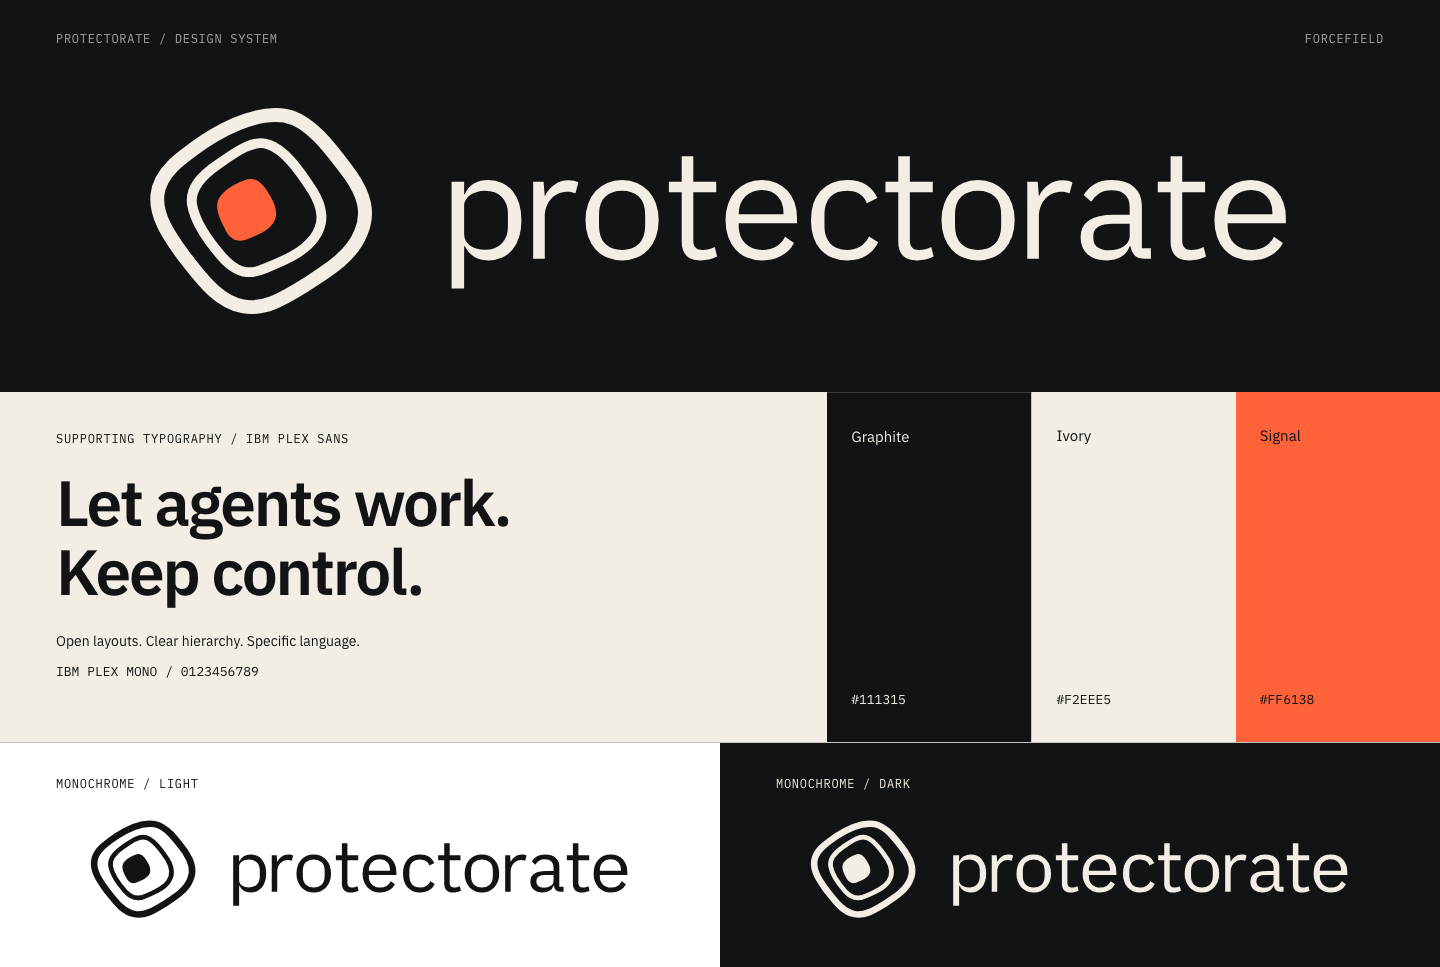
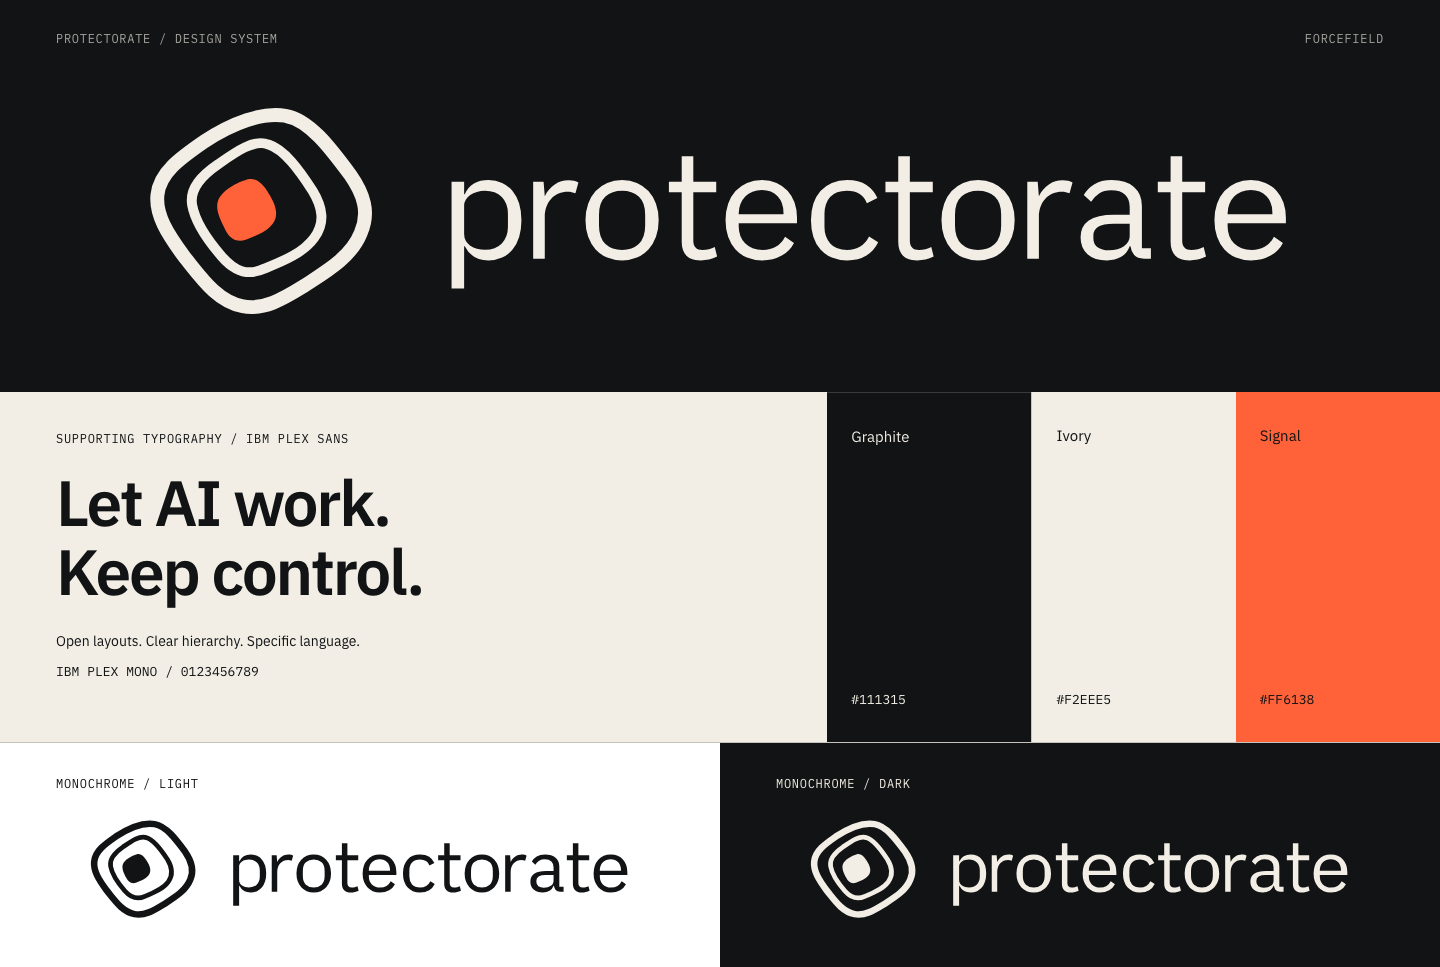
Explain the Protectorate suite in plain English
Coop-Task: 2026-09-07-explain-the-protectorate-product-suite-in-plain

Changed region(s): [[0.0938, 0.4964, 0.3438, 0.5584]]

diff --git a/brand/index.html b/brand/index.html
@@ -11,6 +11,6 @@
 <div class="variant-pair"><section class="variant white"><span class="label">01 / Black on white</span><img src="assets/lockup.svg" alt="Monochrome black logo"></section><section class="variant dark"><span class="label muted">02 / Reversed</span><img src="assets/lockup-reverse.svg" alt="Monochrome ivory logo"></section></div>
 <section class="content light"><div class="section-title"><h2>Keep the field intact.</h2><p>The diagonal, softly squared outline and off-centre core carry the identity. The spaces are deliberately unequal. Keep the supplied geometry intact.</p></div><div class="details"><div class="avatar-row"><img src="assets/avatar.svg" alt="Square avatar"><img class="circle" src="assets/avatar.svg" alt="Circular avatar crop"></div><div><h3>Use the supplied artwork.</h3><ul class="rule-list"><li>Keep both contours closed and the core separate.</li><li>Leave clear space equal to half the core width on every side.</li><li>Use the small mark below 32 px; prefer 24 px or larger.</li><li>Do not centre the core, add rings, rotate, stretch or apply glow.</li></ul><a class="proof-link" href="README.md">Logo usage and asset guide →</a></div></div></section>
 <section class="content light" id="system" style="border-top:1px solid #bbb8b0"><div class="section-title"><h2>Quiet field.<br>Active core.</h2><p>Graphite and warm ivory carry most of the system. Signal orange belongs to the core and occasional emphasis. Emisar keeps its own green; product brands retain their identities.</p></div><div class="swatches"><div class="swatch dark"><strong>Graphite</strong><span>#111315</span></div><div class="swatch light"><strong>Ivory</strong><span>#F2EEE5</span></div><div class="swatch signal"><strong>Signal</strong><span>#FF6138</span></div></div><div class="details"><p>Use ivory on graphite or graphite on ivory for reading. Orange works with graphite for emphasis. Do not use orange body text on ivory.</p><p>Keep layouts open, rules thin and corners modest. The mark provides the organic form; avoid repeating it as a decorative pattern.</p></div></section>
-<section class="content"><div class="section-title"><h2>Type with room<br>to read.</h2><p>IBM Plex Sans for headings and body copy. IBM Plex Mono for identifiers and technical labels. The distributed logo lettering is outlined, so it does not depend on a font being installed.</p></div><p class="type-spec">Let agents work.<br>Keep control.</p><p class="mono muted">Aa Bb Cc / 0123456789 / action_id</p><div class="details"><p>Use sentence case. Headings: semibold, tightly spaced, 1.1 line height. Body: regular, 1.5–1.6 line height, comfortable line lengths. Reserve uppercase for short metadata.</p><p>The approved wordmark combines a Plex Sans Regular foundation with wider round forms, custom r and t, and pair-specific spacing. Use the outlined artwork. Supporting fonts include their SIL Open Font License.</p></div></section>
-<section class="content light"><div class="section-title"><h2>One company.<br>Distinct products.</h2><p>Protectorate is the parent name. Coop, Emisar and Ryker keep their product names. Use ProtectorateHQ only for the GitHub handle, not as the wordmark.</p></div><div class="family-row"><h3>Coop</h3><p>Coding-agent workspaces.</p></div><div class="family-row"><h3>Emisar</h3><p>Governed infrastructure actions.</p></div><div class="family-row"><h3>Ryker</h3><p>An engineering and operations teammate.</p></div><div class="endorsement"><img src="assets/mark-small.svg" alt=""><span>A Protectorate product</span></div></section>
+<section class="content"><div class="section-title"><h2>Type with room<br>to read.</h2><p>IBM Plex Sans for headings and body copy. IBM Plex Mono for identifiers and technical labels. The distributed logo lettering is outlined, so it does not depend on a font being installed.</p></div><p class="type-spec">Let AI work.<br>Keep control.</p><p class="mono muted">Aa Bb Cc / 0123456789 / action_id</p><div class="details"><p>Use sentence case. Headings: semibold, tightly spaced, 1.1 line height. Body: regular, 1.5–1.6 line height, comfortable line lengths. Reserve uppercase for short metadata.</p><p>The approved wordmark combines a Plex Sans Regular foundation with wider round forms, custom r and t, and pair-specific spacing. Use the outlined artwork. Supporting fonts include their SIL Open Font License.</p></div></section>
+<section class="content light"><div class="section-title"><h2>One company.<br>Distinct products.</h2><p>Protectorate is the parent name. Coop, Emisar and Ryker keep their product names. Use ProtectorateHQ only for the GitHub handle, not as the wordmark.</p></div><div class="family-row"><h3>Coop</h3><p>Set boundaries for AI coding.</p></div><div class="family-row"><h3>Emisar</h3><p>Choose what AI can do on your systems.</p></div><div class="family-row"><h3>Ryker</h3><p>A teammate in Slack that investigates problems and prepares code changes.</p></div><div class="endorsement"><img src="assets/mark-small.svg" alt=""><span>A Protectorate product</span></div></section>
 <section class="content" id="assets"><div class="section-title"><h2>Brand assets.</h2><p>SVG masters, avatar and banner artwork, and optical small-size marks. Use the brand guide for naming and logo rules, and the design guide for layout, typography and interaction.</p></div><div class="assets"><a href="assets/mark.svg" download>Forcefield mark <small>SVG / mono</small></a><a href="assets/lockup-color.svg" download>Primary lockup <small>SVG / color</small></a><a href="assets/lockup.svg" download>Black lockup <small>SVG / mono</small></a><a href="assets/lockup-reverse.svg" download>Reverse lockup <small>SVG / ivory</small></a><a href="assets/wordmark.svg" download>Wordmark only <small>SVG / outlined</small></a><a href="assets/avatar.svg" download>GitHub avatar <small>SVG / 512 × 512</small></a><a href="assets/banner.svg" download>Profile banner <small>SVG / 1600 × 520</small></a><a href="assets/mark-small.svg" download>Small mark <small>SVG / optical</small></a><a href="README.md">Usage guidelines <small>MARKDOWN</small></a><a href="DESIGN.md">Design guide <small>MARKDOWN</small></a><a href="tokens.css" download>Design tokens <small>CSS</small></a></div></section></main><footer>Protectorate / Forcefield / Identity 01 · <a href="https://github.com/ProtectorateHQ">GitHub</a></footer></body></html>

diff --git a/profile/README.md b/profile/README.md
@@ -2,42 +2,52 @@
   <img src="https://raw.githubusercontent.com/ProtectorateHQ/.github/main/profile/assets/protectorate-banner.png?v=forcefield-a" alt="Protectorate — Forcefield logo" width="100%">
 </p>
 
-<h1 align="center">Let agents work. Keep control.</h1>
+<h1 align="center">Put AI to work on your code and systems.</h1>
 
 <p align="center">
-  We build tools for AI agents to work on code and infrastructure<br>
-  within boundaries you choose.
+  Get help with coding, troubleshooting, and everyday maintenance.<br>
+  You decide what AI can access, what it can change, and when it needs your approval.
 </p>
 
-### [Coop](https://github.com/AndrewDryga/coop)
+Ask Ryker for help. Coop gives it a place to work on code, while Emisar controls
+what it can do on your systems.
 
-Run your coding agent in an isolated workspace, with controlled access to
-repositories and credentials. Use your choice of agent for interactive work
-or unattended tasks.
+## [Ryker](https://github.com/AndrewDryga/responder) — a teammate you can ask for help
 
-[Get started](https://coop.dryga.com) · [Source](https://github.com/AndrewDryga/coop)
+Give Ryker a task in Slack. It can investigate a problem, answer questions about
+your systems, or prepare a code change for review. It keeps track of unfinished
+work, so your team can pick up where it left off.
 
-### [Emisar](https://emisar.dev)
+[Meet Ryker](https://github.com/AndrewDryga/responder#quick-start) · [Source](https://github.com/AndrewDryga/responder)
 
-Let your agent investigate and operate infrastructure through actions you choose.
-Policy and host-side checks bound what can run, with approvals when required
-and an audit trail of action attempts.
+## [Coop](https://coop.dryga.com) — set boundaries for AI coding
 
-[Get started](https://emisar.dev/docs/quickstart) · [Action catalog](https://emisar.dev/packs) · [Source](https://github.com/AndrewDryga/emisar)
+Run the coding assistant you already use in a separate environment. You choose
+which projects and files it can access. Give it a task or a list of tasks,
+without having to guide every step.
 
-### [Ryker](https://github.com/AndrewDryga/responder)
+[Try Coop](https://coop.dryga.com) · [Source](https://github.com/AndrewDryga/coop)
 
-A persistent engineering and operations teammate in Slack. Ryker investigates
-problems, prepares code changes for review, and keeps track of ongoing work
-across conversations. It works through Coop's isolated sessions and Emisar's
-governed infrastructure access.
+## [Emisar](https://emisar.dev) — choose what AI can do on your systems
 
-[Get started](https://github.com/AndrewDryga/responder#quick-start) · [Source](https://github.com/AndrewDryga/responder)
+Let AI look into errors, check whether services are working, or carry out a
+specific change. You choose the actions it can take and which ones need approval.
+Emisar checks each request and keeps a record of it.
 
-<sub>Ryker is the new name for Responder.</sub>
+[Try Emisar](https://emisar.dev/docs/quickstart) · [See available actions](https://emisar.dev/packs) · [Source](https://github.com/AndrewDryga/emisar)
+
+## How they work together
+
+Suppose your app is running slowly. You ask Ryker to investigate. It uses Emisar
+to check the systems you have connected. If a code fix is needed, you can ask
+Ryker to prepare the change in Coop. Your team reviews it and decides whether
+to release it.
+
+Use Coop or Emisar with the AI assistant you already have, or use Ryker to bring
+the workflow into your team's Slack conversations.
+
+<sub>Ryker was formerly called Responder. Its source repository still uses that name.</sub>
 
 ---
 
-[Emisar for Cursor](https://github.com/ProtectorateHQ/emisar-cursor-plugin) · [Emisar security model](https://emisar.dev/security)
-
-[Brand guide](https://github.com/ProtectorateHQ/.github/blob/main/brand/README.md) · [Design guide](https://github.com/ProtectorateHQ/.github/blob/main/brand/DESIGN.md) · [Logo assets](https://github.com/ProtectorateHQ/.github/tree/main/brand/assets)
+[Brand guide](https://github.com/ProtectorateHQ/.github/blob/main/brand/README.md) · [Design guide](https://github.com/ProtectorateHQ/.github/blob/main/brand/DESIGN.md) · [Logo assets](https://github.com/ProtectorateHQ/.github/tree/main/brand/assets) · [How Emisar controls access](https://emisar.dev/security)

diff --git a/brand/README.md b/brand/README.md
@@ -2,9 +2,9 @@
 
 ![Protectorate Forcefield logo](../profile/assets/protectorate-banner.png)
 
-Protectorate builds tools for AI agents to work on code and infrastructure within
-boundaries you choose. The identity pairs the Forcefield symbol with custom
-lowercase lettering.
+Protectorate helps teams put AI to work on their code and systems, while choosing
+what it can access and change. The identity pairs the Forcefield symbol with
+custom lowercase lettering.
 
 [Design guide](DESIGN.md) · [Logo assets](assets) · [CSS tokens](tokens.css)
 
@@ -65,17 +65,20 @@ Use the opaque banner when the destination's background is unknown.
 
 ## Voice
 
-Write as a technically literate colleague: direct, specific and calm. Lead with
-the useful work an agent can do, then explain the boundaries that make that work
-appropriate.
+Write for someone new to these tools: use simple English and explain the useful
+work first. Introduce each product by its job, then show how the products work
+together through a familiar example. Keep the tone direct, helpful and calm.
 
 - Name the mechanism or product behavior behind a claim.
 - Describe controls precisely; avoid blanket safety promises.
-- Use ordinary words, sentence case and the reader's vocabulary.
+- Prefer “AI assistant” to “agent,” “separate environment” to “isolated execution,”
+  and “a record of what it did” to “audit trail” in introductory copy. Technical
+  documentation can use precise terms once they are explained.
+- Use sentence case and keep paragraphs short.
 - Keep product capabilities separate. A company-level statement must not imply
   every product provides the same controls.
 
-The company line is “Let agents work. Keep control.” Use it where it introduces
+The company line is “Let AI work. Keep control.” Use it where it introduces
 the umbrella, not as a repeated footer on every product explanation.
 
 ## Asset library
